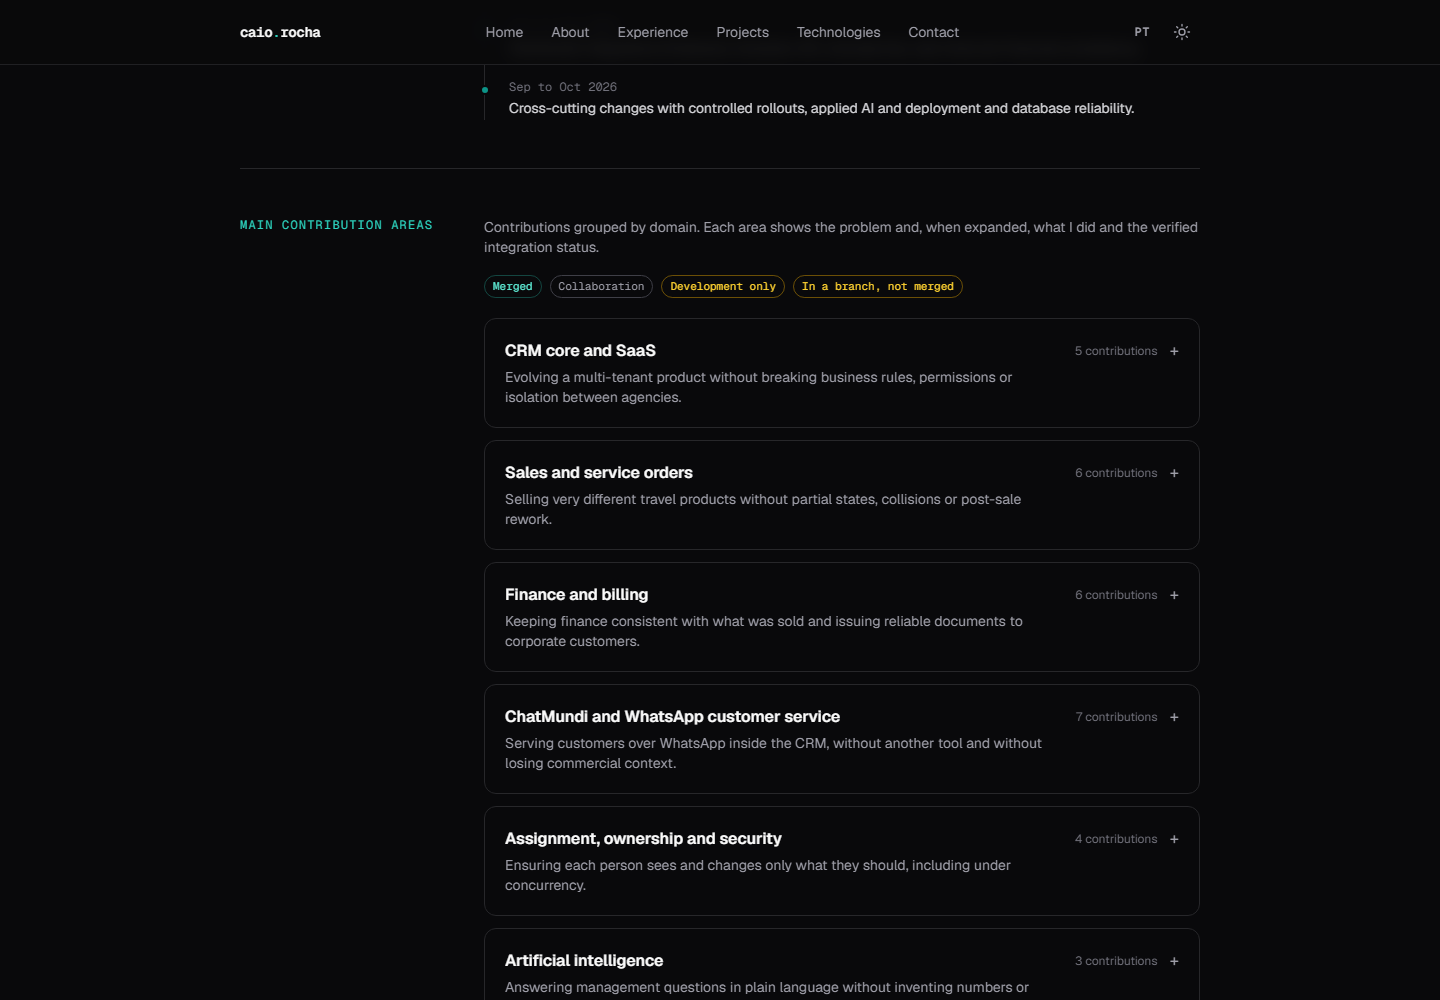
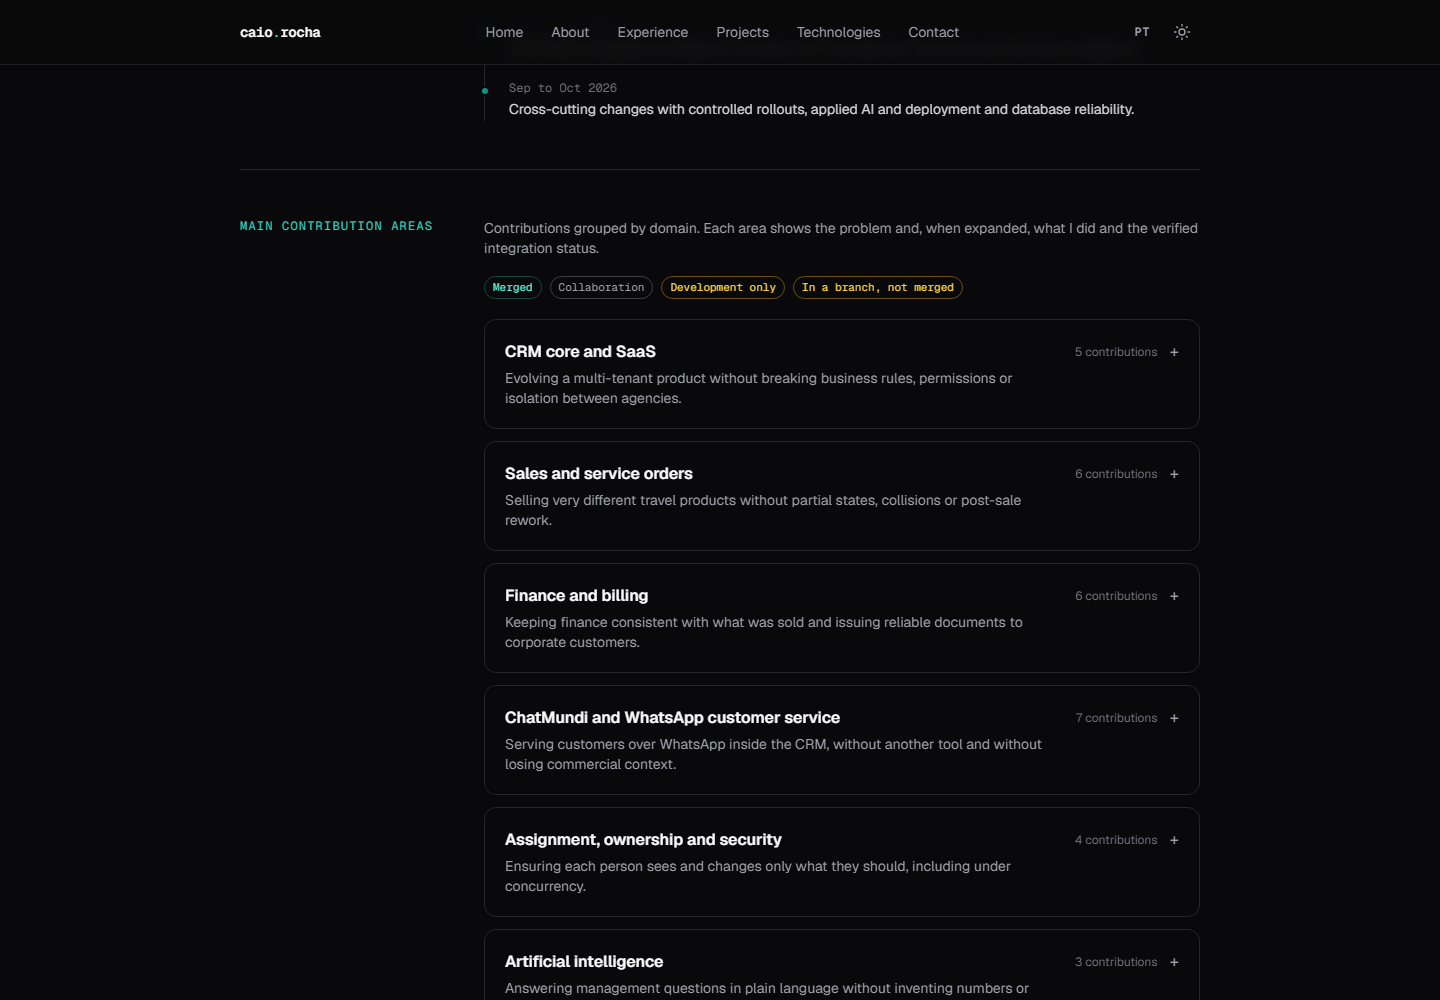
feat(portfolio): add OrderFlow Java and Kafka case study
OrderFlow como quarto projeto público, com estudo de caso em PT e EN, capturas reais geradas do repositório e testes atualizados. Java, Spring Boot, Apache Kafka, JUnit 5 e Testcontainers entram nas competências como tecnologias de projetos próprios.

diff --git a/src/data/projects.ts b/src/data/projects.ts
@@ -13,7 +13,7 @@ export interface TestSuite {
 }
 
 export interface Project {
-  slug: 'routeops' | 'docpilot-ai' | 'connecthub';
+  slug: 'routeops' | 'docpilot-ai' | 'connecthub' | 'orderflow';
   name: string;
   repo: string;
   /** Demonstração pública, apenas se existir. */
@@ -732,6 +732,236 @@ export const projects: Project[] = [
         {
           pt: 'Dashboard do ConnectHub em tela de celular',
           en: 'ConnectHub dashboard on a phone screen',
+        },
+        { pt: 'Layout responsivo', en: 'Responsive layout' },
+        true,
+      ),
+    ],
+  },
+  {
+    slug: 'orderflow',
+    name: 'OrderFlow',
+    repo: 'https://github.com/caiorocha7/orderflow-java',
+    tagline: {
+      pt: 'Pedidos e estoque com Java, Kafka e consistência sob concorrência',
+      en: 'Orders and inventory with Java, Kafka and consistency under concurrency',
+    },
+    summary: {
+      pt: 'Plataforma de gestão de pedidos e estoque com backend Java e Spring Boot: reserva de estoque segura sob concorrência, eventos publicados no Kafka por Transactional Outbox, pagamento simulado processado de forma assíncrona e idempotente, com retentativas e Dead Letter Topic.',
+      en: 'Order and inventory management platform with a Java and Spring Boot backend: concurrency-safe stock reservations, events published to Kafka through a Transactional Outbox, and a simulated payment processed asynchronously and idempotently, with retries and a Dead Letter Topic.',
+    },
+    highlights: {
+      pt: [
+        '20 compras simultâneas por 5 unidades vendem exatamente 5 (teste contra PostgreSQL real)',
+        'Outbox transacional, consumidor Kafka idempotente, retry com backoff e DLT com compensação',
+        '75 testes, incluindo Testcontainers com PostgreSQL e Kafka e E2E no navegador',
+      ],
+      en: [
+        '20 concurrent purchases for 5 units sell exactly 5 (tested against a real PostgreSQL)',
+        'Transactional outbox, idempotent Kafka consumer, retries with backoff and a DLT with compensation',
+        '75 tests, including Testcontainers with PostgreSQL and Kafka and browser E2E',
+      ],
+    },
+    stack: [
+      'Java 21',
+      'Spring Boot',
+      'Apache Kafka',
+      'PostgreSQL',
+      'Angular',
+      'TypeScript',
+      'JUnit 5',
+      'Testcontainers',
+      'Docker',
+      'GitHub Actions',
+    ],
+    testsBadge: { pt: '75 testes', en: '75 tests' },
+    problem: {
+      pt: [
+        'Vender produtos com estoque limitado expõe três problemas clássicos: duas pessoas comprando a última unidade ao mesmo tempo, um pagamento que falha ou demora deixando estoque preso, e uma mensagem entregue duas vezes que cobra ou baixa o estoque em dobro.',
+        'O OrderFlow trata cada um com um mecanismo explícito e testado: lock pessimista com ordem fixa na reserva, Transactional Outbox para nunca perder um evento, consumidor idempotente por eventId e compensação automática quando o pagamento falha de forma definitiva.',
+      ],
+      en: [
+        'Selling products with limited stock exposes three classic problems: two people buying the last unit at the same time, a payment that fails or hangs and leaves stock locked, and a message delivered twice that charges or deducts stock twice.',
+        'OrderFlow handles each one with an explicit, tested mechanism: pessimistic locking in a fixed order for reservations, a Transactional Outbox so events are never lost, an idempotent consumer keyed by eventId and automatic compensation when payment fails for good.',
+      ],
+    },
+    architecture: [
+      {
+        layer: { pt: 'Backend', en: 'Backend' },
+        detail: {
+          pt: 'Monólito modular em Spring Boot 4.1 e Java 21 (catalog, ordering, payment, messaging), com ports e adapters onde há troca real de tecnologia: o publicador de eventos e o gateway de pagamento. Não é um sistema de microsserviços.',
+          en: 'Modular monolith on Spring Boot 4.1 and Java 21 (catalog, ordering, payment, messaging), with ports and adapters where technology actually varies: the event publisher and the payment gateway. It is not a microservices system.',
+        },
+      },
+      {
+        layer: { pt: 'Mensageria', en: 'Messaging' },
+        detail: {
+          pt: 'Pedido, reserva e evento no outbox na mesma transação; um relay publica no Kafka com FOR UPDATE SKIP LOCKED. O consumidor de pagamento aplica o resultado de forma idempotente; falhas temporárias são retentadas e, ao esgotar, vão para a DLT.',
+          en: 'Order, reservation and outbox event in one transaction; a relay publishes to Kafka with FOR UPDATE SKIP LOCKED. The payment consumer applies the outcome idempotently; transient failures are retried and, once exhausted, sent to the DLT.',
+        },
+      },
+      {
+        layer: { pt: 'Dados', en: 'Data' },
+        detail: {
+          pt: 'PostgreSQL 18 com Flyway; regras críticas também no banco (CHECK de saldo não negativo, SKU e Idempotency-Key únicos, PK composta de mensagens processadas).',
+          en: 'PostgreSQL 18 with Flyway; critical rules also enforced in the database (non-negative stock CHECK, unique SKU and Idempotency-Key, composite key for processed messages).',
+        },
+      },
+      {
+        layer: { pt: 'Frontend', en: 'Frontend' },
+        detail: {
+          pt: 'Angular 22 (standalone, signals, sem zone.js) servido pelo Nginx na mesma origem da API: dashboard, produtos, estoque, pedidos e linha do tempo do processamento assíncrono de cada pedido.',
+          en: 'Angular 22 (standalone, signals, zoneless) served by Nginx on the same origin as the API: dashboard, products, inventory, orders and a per-order timeline of the asynchronous processing.',
+        },
+      },
+    ],
+    features: {
+      pt: [
+        'Login por sessão com cookie HttpOnly, CSRF e senhas com BCrypt; papéis ADMIN e OPERATOR',
+        'Produtos com SKU único, preço não negativo e controle otimista de versão na edição',
+        'Estoque disponível e reservado, ajuste com motivo e trilha de movimentações',
+        'Pedidos com vários itens, total calculado no servidor e preço congelado na compra',
+        'Pagamento simulado com cenários de aprovação, recusa, falha temporária e indisponibilidade',
+        'Cancelamento com liberação da reserva ou devolução ao estoque, com histórico de status',
+        'Histórico de processamento: outbox, consumo no Kafka, retentativas e DLT',
+      ],
+      en: [
+        'Session login with an HttpOnly cookie, CSRF and BCrypt passwords; ADMIN and OPERATOR roles',
+        'Products with unique SKUs, non-negative prices and optimistic locking on edits',
+        'Available and reserved stock, adjustments with a reason and a movement trail',
+        'Multi-item orders, totals calculated on the server and prices frozen at purchase time',
+        'Simulated payment with approval, decline, transient failure and outage scenarios',
+        'Cancellation that releases the reservation or restocks items, with status history',
+        'Processing history: outbox, Kafka consumption, retries and DLT',
+      ],
+    },
+    decisions: [
+      {
+        title: { pt: 'Lock pessimista com ordem fixa', en: 'Pessimistic locking in a fixed order' },
+        detail: {
+          pt: 'As linhas dos produtos são bloqueadas com SELECT FOR UPDATE sempre em ordem de id antes de validar e reservar. Pedidos pelo mesmo produto são serializados e pedidos com produtos em ordem inversa não entram em deadlock (há teste para os dois casos).',
+          en: 'Product rows are locked with SELECT FOR UPDATE, always ordered by id, before validating and reserving. Orders for the same product are serialized and orders listing products in reverse order do not deadlock (both cases are tested).',
+        },
+      },
+      {
+        title: {
+          pt: 'Outbox em vez de publicar direto',
+          en: 'Outbox instead of publishing directly',
+        },
+        detail: {
+          pt: 'Publicar no Kafka dentro da transação arrisca evento sem pedido; depois do commit, pedido sem evento. Com o outbox, a entrega é at-least-once e a duplicidade fica a cargo do consumidor.',
+          en: 'Publishing to Kafka inside the transaction risks an event without an order; after the commit, an order without an event. With the outbox, delivery is at-least-once and duplicates are handled by the consumer.',
+        },
+      },
+      {
+        title: { pt: 'Idempotência na mesma transação', en: 'Idempotency in the same transaction' },
+        detail: {
+          pt: 'A marca de mensagem processada é gravada junto com o efeito (status, estoque e próximo evento), depois de bloquear o pedido: ou tudo acontece, ou nada. Reenvios do mesmo evento são registrados e ignorados.',
+          en: 'The processed-message marker is written together with the effect (status, stock and next event), after locking the order: either everything happens or nothing does. Re-deliveries of the same event are logged and ignored.',
+        },
+      },
+      {
+        title: { pt: 'Compensação pela DLT', en: 'Compensation through the DLT' },
+        detail: {
+          pt: 'Falha temporária é retentada com backoff; esgotadas as tentativas, a mensagem vai para a Dead Letter Topic, cujo consumidor marca o pedido como falho e devolve a reserva. Mensagens malformadas vão direto para a DLT, sem travar o consumidor.',
+          en: 'Transient failures are retried with backoff; once attempts run out, the message goes to the Dead Letter Topic, whose consumer marks the order as failed and returns the reservation. Malformed messages go straight to the DLT without blocking the consumer.',
+        },
+      },
+    ],
+    tests: [
+      {
+        name: { pt: 'Backend unitários (JUnit 5)', en: 'Backend unit (JUnit 5)' },
+        result: { pt: '25 aprovados', en: '25 passed' },
+      },
+      {
+        name: {
+          pt: 'Integração com Testcontainers (PostgreSQL e Kafka reais)',
+          en: 'Integration with Testcontainers (real PostgreSQL and Kafka)',
+        },
+        result: { pt: '31 aprovados', en: '31 passed' },
+      },
+      {
+        name: { pt: 'Frontend (Vitest)', en: 'Frontend (Vitest)' },
+        result: { pt: '9 aprovados', en: '9 passed' },
+      },
+      {
+        name: {
+          pt: 'E2E (Playwright contra o Docker Compose)',
+          en: 'E2E (Playwright against Docker Compose)',
+        },
+        result: { pt: '10 aprovados', en: '10 passed' },
+      },
+    ],
+    testsNote: {
+      pt: 'Os testes de integração cobrem concorrência na reserva, mensagens duplicadas no Kafka, retentativa, DLT, cancelamento, autenticação e autorização. O CI roda backend, frontend, E2E com a stack completa e varredura de segredos a cada push.',
+      en: 'Integration tests cover reservation concurrency, duplicated Kafka messages, retries, the DLT, cancellation, authentication and authorization. CI runs backend, frontend, E2E against the full stack and secret scanning on every push.',
+    },
+    limitations: {
+      pt: [
+        'O pagamento é simulado: não há integração com meio de pagamento, e o cenário é escolhido no pedido para demonstração.',
+        'Instância única do backend, com sessões em memória; um único broker Kafka.',
+        'Retentativas bloqueantes seguram a partição durante o backoff; outbox e mensagens processadas não têm rotina de limpeza.',
+        'Sem métricas nem tracing distribuído; há health checks e logs estruturados.',
+      ],
+      en: [
+        'Payment is simulated: there is no payment provider integration, and the scenario is chosen per order for demonstration.',
+        'Single backend instance with in-memory sessions; a single Kafka broker.',
+        'Blocking retries hold the partition during backoff; the outbox and processed-message tables have no cleanup job.',
+        'No metrics or distributed tracing yet; health checks and structured logs are in place.',
+      ],
+    },
+    screenshots: [
+      shot(
+        'orderflow',
+        '02-dashboard',
+        {
+          pt: 'Dashboard do OrderFlow com pedidos por status, produtos e alertas de estoque baixo',
+          en: 'OrderFlow dashboard with orders by status, products and low-stock alerts',
+        },
+        { pt: 'Dashboard com dados do banco', en: 'Dashboard backed by the database' },
+      ),
+      shot(
+        'orderflow',
+        '05-order-retry',
+        {
+          pt: 'Pedido com falha temporária retentada até aprovar, com eventos, consumo e tentativas',
+          en: 'Order whose transient failure was retried until approval, with events, consumption and attempts',
+        },
+        { pt: 'Retentativas com backoff', en: 'Retries with backoff' },
+      ),
+      shot(
+        'orderflow',
+        '06-order-dlt',
+        {
+          pt: 'Pedido com falha definitiva enviado à DLT, marcado como falho e com a reserva liberada',
+          en: 'Order with a permanent failure sent to the DLT, marked as failed and with its reservation released',
+        },
+        { pt: 'Dead Letter Topic e compensação', en: 'Dead Letter Topic and compensation' },
+      ),
+      shot(
+        'orderflow',
+        '10-processing',
+        {
+          pt: 'Histórico de processamento com outbox, consumo no Kafka, retentativas e DLT',
+          en: 'Processing history with outbox, Kafka consumption, retries and DLT',
+        },
+        { pt: 'Histórico de processamento', en: 'Processing history' },
+      ),
+      shot(
+        'orderflow',
+        '07-new-order',
+        {
+          pt: 'Formulário de novo pedido com vários itens e escolha do cenário de pagamento simulado',
+          en: 'New order form with multiple items and a choice of simulated payment scenario',
+        },
+        { pt: 'Novo pedido', en: 'New order' },
+      ),
+      shot(
+        'orderflow',
+        '11-mobile-dashboard',
+        {
+          pt: 'Dashboard do OrderFlow em tela de celular',
+          en: 'OrderFlow dashboard on a phone screen',
         },
         { pt: 'Layout responsivo', en: 'Responsive layout' },
         true,

diff --git a/src/data/profile.ts b/src/data/profile.ts
@@ -19,12 +19,12 @@ export const profile = {
   about: {
     pt: [
       'Tenho formação em Engenharia de Software e pós-graduação em Inteligência Artificial pelo iCEV. Na MetaMundi, participei da construção e da evolução do CRMundi, um SaaS multi-tenant para agências de viagem, em vendas, ordens de serviço, financeiro, faturamento, pós-venda e relatórios. Também participei desde o início da implementação do ChatMundi, a solução que levou o atendimento WhatsApp para dentro do produto.',
-      'Gosto de problemas que atravessam o sistema: regras de negócio que precisam continuar corretas sob concorrência, integrações entre serviços, permissões e visibilidade de dados, e IA aplicada com respostas fundamentadas em dados reais. Nos projetos próprios, aprofundo Node.js, NestJS, React e PostgreSQL, além de RAG, embeddings e avaliação de respostas de LLMs.',
+      'Gosto de problemas que atravessam o sistema: regras de negócio que precisam continuar corretas sob concorrência, integrações entre serviços, permissões e visibilidade de dados, e IA aplicada com respostas fundamentadas em dados reais. Nos projetos próprios, aprofundo Java com Spring Boot e Kafka, Node.js, NestJS, React e PostgreSQL, além de RAG, embeddings e avaliação de respostas de LLMs.',
       'No dia a dia, uso ferramentas de desenvolvimento assistido por IA, como o Claude Code, para acelerar implementação, investigação e revisão, sempre validando o resultado com testes automatizados e CI.',
     ],
     en: [
       'I studied Software Engineering and Artificial Intelligence (postgraduate program) at iCEV. At MetaMundi I helped build and evolve CRMundi, a multi-tenant SaaS for travel agencies, across sales, service orders, finance, billing, post-sale and reporting. I was also involved from the start in building ChatMundi, the solution that brought WhatsApp customer service into the product.',
-      'I enjoy problems that cut across the whole system: business rules that must stay correct under concurrency, integrations between services, permissions and data visibility, and applied AI with answers grounded in real data. In my own projects I go deeper into Node.js, NestJS, React and PostgreSQL, as well as RAG, embeddings and LLM answer evaluation.',
+      'I enjoy problems that cut across the whole system: business rules that must stay correct under concurrency, integrations between services, permissions and data visibility, and applied AI with answers grounded in real data. In my own projects I go deeper into Java with Spring Boot and Kafka, Node.js, NestJS, React and PostgreSQL, as well as RAG, embeddings and LLM answer evaluation.',
       'In my daily work I use AI-assisted development tools such as Claude Code to speed up implementation, investigation and review, always validating the result with automated tests and CI.',
     ],
   } satisfies Localized<string[]>,

diff --git a/src/data/dictionary.ts b/src/data/dictionary.ts
@@ -38,7 +38,7 @@ const pt = {
     experienceLead: 'Onde apliquei engenharia de software em produtos reais.',
     projects: 'Projetos pessoais',
     projectsLead:
-      'Três sistemas independentes que desenvolvi e publiquei com código aberto, testes automatizados, CI e limitações documentadas.',
+      'Quatro sistemas independentes que desenvolvi e publiquei com código aberto, testes automatizados, CI e limitações documentadas.',
     stack: 'Competências técnicas',
     stackLead:
       'Organizadas por área, separando o que uso profissionalmente do que aprofundo nos projetos próprios.',
@@ -165,7 +165,7 @@ const en: Dictionary = {
     experienceLead: 'Where I have applied software engineering to real products.',
     projects: 'Personal projects',
     projectsLead:
-      'Three independent systems I built and published as open source, with automated tests, CI and documented limitations.',
+      'Four independent systems I built and published as open source, with automated tests, CI and documented limitations.',
     stack: 'Technical skills',
     stackLead:
       'Grouped by area, separating what I use professionally from what I explore further in my own projects.',

diff --git a/e2e/site.spec.ts b/e2e/site.spec.ts
@@ -9,6 +9,7 @@ const PROJECTS = [
     name: 'ConnectHub',
     repo: 'https://github.com/caiorocha7/connecthub-integrations',
   },
+  { slug: 'orderflow', name: 'OrderFlow', repo: 'https://github.com/caiorocha7/orderflow-java' },
 ];
 
 /** Falha o teste se a página emitir erros de console ou exceções. */
@@ -167,7 +168,8 @@ test('SEO: metadata, Open Graph, sitemap e robots', async ({ page, request }) =>
   await expect(page.locator('link[rel="alternate"][hreflang="pt-BR"]')).toBeAttached();
 
   const sitemap = await (await request.get(`${BASE}/sitemap.xml`)).text();
-  expect(sitemap.match(/<loc>/g)).toHaveLength(12);
+  expect(sitemap.match(/<loc>/g)).toHaveLength(14);
+  expect(sitemap).toContain('/en/projects/orderflow/');
   expect(sitemap).toContain('/pt/experience/');
   expect(sitemap).toContain('/en/experience/crmundi/');
   expect(sitemap).toContain('/pt/projects/connecthub/');

diff --git a/e2e/crmundi.spec.ts b/e2e/crmundi.spec.ts
@@ -249,6 +249,12 @@ for (const [locale, title, groups, work, personal] of [
     // Claude Code aparece como ferramenta, não como tecnologia profissional da MetaMundi
     await expect(section.getByText(/Claude Code/)).toHaveCount(1);
     await expect(page.locator('section#experience')).not.toContainText('Claude Code');
+    // Java, Spring Boot e Kafka vêm do OrderFlow: aparecem como projeto próprio, nunca na experiência profissional
+    const personalRow = section.locator('p', { hasText: `${personal}:` }).first();
+    for (const tech of ['Java', 'Spring Boot', 'Apache Kafka']) {
+      await expect(personalRow).toContainText(tech);
+      await expect(page.locator('section#experience')).not.toContainText(tech);
+    }
   });
 }
 

diff --git a/src/data/stack.ts b/src/data/stack.ts
@@ -29,7 +29,17 @@ export const stack: SkillGroup[] = [
       'MySQL',
       { pt: 'APIs REST', en: 'REST APIs' },
     ],
-    personal: ['Node.js', 'NestJS', 'Prisma', 'PostgreSQL', 'Redis', 'Celery'],
+    personal: [
+      'Java',
+      'Spring Boot',
+      'Apache Kafka',
+      'Node.js',
+      'NestJS',
+      'Prisma',
+      'PostgreSQL',
+      'Redis',
+      'Celery',
+    ],
   },
   {
     category: { pt: 'Frontend e integrações', en: 'Frontend and integrations' },
@@ -69,6 +79,6 @@ export const stack: SkillGroup[] = [
       'JWT/JWKS',
       'RBAC',
     ],
-    personal: ['GitHub Actions', 'Playwright', 'Vitest'],
+    personal: ['GitHub Actions', 'JUnit 5', 'Testcontainers', 'Playwright', 'Vitest'],
   },
 ];

diff --git a/src/test/content.test.ts b/src/test/content.test.ts
@@ -56,8 +56,13 @@ describe('i18n', () => {
 });
 
 describe('projetos', () => {
-  it('destaca exatamente os três projetos, com repositórios do autor', () => {
-    expect(projects.map((p) => p.slug)).toEqual(['routeops', 'docpilot-ai', 'connecthub']);
+  it('destaca exatamente os quatro projetos, com repositórios do autor', () => {
+    expect(projects.map((p) => p.slug)).toEqual([
+      'routeops',
+      'docpilot-ai',
+      'connecthub',
+      'orderflow',
+    ]);
     for (const p of projects)
       expect(p.repo).toMatch(/^https:\/\/github\.com\/caiorocha7\/[a-z-]+$/);
   });

diff --git a/README.md b/README.md
@@ -3,7 +3,7 @@
 [![CI e deploy](https://github.com/caiorocha7/caio-rocha-portfolio/actions/workflows/ci.yml/badge.svg)](https://github.com/caiorocha7/caio-rocha-portfolio/actions/workflows/ci.yml)
 
 Site de portfólio de **Caio Rocha**, Engenheiro de Software (Full Stack | Backend | Integrações | IA Aplicada).
-Apresenta a experiência profissional e três projetos completos com estudos de caso, capturas reais, testes e
+Apresenta a experiência profissional e quatro projetos completos com estudos de caso, capturas reais, testes e
 limitações documentadas. O site não oferece currículo para download.
 
 **Site:** https://caiorocha7.github.io/caio-rocha-portfolio/
@@ -29,6 +29,7 @@ Home: apresentação, sobre, experiência profissional (resumo), projetos pessoa
 | RouteOps    | React + NestJS, gestão logística, modelagem de dados, E2E | [routeops-fullstack](https://github.com/caiorocha7/routeops-fullstack)           |
 | DocPilot AI | RAG, segurança de LLMs, extração estruturada, avaliações  | [docpilot-ai](https://github.com/caiorocha7/docpilot-ai)                         |
 | ConnectHub  | Webhooks, idempotência, filas, outbox transacional        | [connecthub-integrations](https://github.com/caiorocha7/connecthub-integrations) |
+| OrderFlow   | Java, Spring Boot, Kafka, concorrência no estoque, DLT    | [orderflow-java](https://github.com/caiorocha7/orderflow-java)                   |
 
 ## Stack
 

diff --git a/docs/MAINTENANCE.md b/docs/MAINTENANCE.md
@@ -24,7 +24,8 @@ Os números vêm dos READMEs e do CI de cada repositório. Ao mudar, atualize `t
 
 As capturas são **reais**, tiradas da aplicação em execução e versionadas em `docs/screenshots` de cada repositório.
 
-1. Clone os repositórios ao lado deste (`../routeops-fullstack`, `../docpilot-ai`, `../connecthub-integrations`).
+1. Clone os repositórios ao lado deste (`../routeops-fullstack`, `../docpilot-ai`, `../connecthub-integrations`,
+   `../orderflow-java`).
 2. Atualize as capturas no próprio repositório do projeto.
 3. Rode `pnpm images`, que converte os PNGs selecionados em WebP (1600 px, qualidade 82) em `public/projects/<slug>/`.
 4. Se adicionar ou remover arquivos, ajuste a lista em `scripts/optimize-images.mjs` e em `src/data/projects.ts`.
